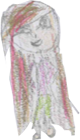
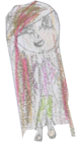
Week 14 Day 3 #3

diff --git a/storeScreen.html b/storeScreen.html
@@ -5,31 +5,33 @@
 		<script src = "jQuery.js"></script>
 	</head>
 	<body>
-		STORE SCREEN
-		<a href="mainMenu.html"><input type="button" value="RETURN"></a>
-		<input type = "button" value = "Male 1" id = "buttonMale1" onclick= checkFunds("m1",0)>
-		<input type = "button" value = "Male 2" id = "buttonMale2" onclick= checkFunds("m2",500)>
-		<input type = "button" value = "Male 3" id = "buttonMale3" onclick= checkFunds("m3",1000)>
-		<input type = "button" value = "Female 1" id= "buttonFemale1" onclick= checkFunds("f1",0)>
-		<input type = "button" value = "Female 2" id= "buttonFemale2" onclick= checkFunds("f2",500)>
-		<input type = "button" value = "Female 3" id= "buttonFemale3" onclick= checkFunds("f3",1000)>
-		<input type = "button" value = "RESET" id= "resetStore" onclick = resetStore()>
-		<p id = "moneyP">
-			<script>
-				var m = localStorage.getItem('coins');
-				$('#moneyP').text(m)
-			</script>
-		</p>
-		<br> Reference <br>
-		Male 1 = images/male1.png >> Free <br>
-		Male 2 = images/blue.png  >> $500<br>
-		Male 3 = images/red.png >> $1000<br>
-		Female 1 = images/female1.png  >>Free<br>
-		Female 2 = images/green.png >> $500<br>
-		Female 3 = images/yellow.png >> $1000<br>
-		
-		<canvas id = "temp"></canvas>
-		
-		<script src = "storeJS.js"></script>
+		<div>
+			STORE SCREEN
+			<a href="mainMenu.html"><input type="button" value="RETURN"></a>
+			<input type = "button" value = "Male 1" id = "buttonMale1" onclick= checkFunds("m1",0)>
+			<input type = "button" value = "Male 2" id = "buttonMale2" onclick= checkFunds("m2",0)>
+			<input type = "button" value = "Male 3" id = "buttonMale3" onclick= checkFunds("m3",0)>
+			<input type = "button" value = "Female 1" id= "buttonFemale1" onclick= checkFunds("f1",0)>
+			<input type = "button" value = "Female 2" id= "buttonFemale2" onclick= checkFunds("f2",0)>
+			<input type = "button" value = "Female 3" id= "buttonFemale3" onclick= checkFunds("f3",0)>
+			<input type = "button" value = "RESET" id= "resetStore" onclick = resetStore()>
+			<p id = "moneyP">
+				<script>
+					var m = localStorage.getItem('coins');
+					$('#moneyP').text(m)
+				</script>
+			</p>
+			<br> Reference <br>
+			Male 1 = images/male1.png >> Free <br>
+			Male 2 = images/blue.png  >> $500<br>
+			Male 3 = images/red.png >> $1000<br>
+			Female 1 = images/female1.png  >>Free<br>
+			Female 2 = images/green.png >> $500<br>
+			Female 3 = images/yellow.png >> $1000<br>
+			
+			<canvas id = "temp"></canvas>
+			
+			<script src = "storeJS.js"></script>
+		</div>
 	</body>
 </html>

diff --git a/storeJS.js b/storeJS.js
@@ -55,11 +55,11 @@ function changeChar(c){
 			runner.src= localStorage.avatar;
 			break;
 		case "m2": 
-			localStorage.avatar = "images/blue.png";
+			localStorage.avatar = "images/male2.png";
 			runner.src= localStorage.avatar;
 			break;
 		case "m3": 
-			localStorage.avatar = "images/red.png";
+			localStorage.avatar = "images/male3.png";
 			runner.src= localStorage.avatar;
 			break;
 		case "f1": 
@@ -67,11 +67,11 @@ function changeChar(c){
 			runner.src= localStorage.avatar;
 			break;
 		case "f2": 
-			localStorage.avatar = "images/green.png";
+			localStorage.avatar = "images/female2.png";
 			runner.src= localStorage.avatar;
 			break;
 		case "f3": 
-			localStorage.avatar = "images/yellow.png";
+			localStorage.avatar = "images/female3.png";
 			runner.src= localStorage.avatar;
 			break;
 	}

diff --git a/storeStyle.css b/storeStyle.css
@@ -7,6 +7,16 @@ body{
 	top:0px;
 }
 
+div{
+	background-image:url("images/storeBackground.png");
+	width:1024px;
+	height:600px;
+	border: 2px solid #000000;
+	position:absolute;
+	left:0px;
+	top:0px;
+}
+
 #temp{
 	position: absolute;
 	left: 300px;
@@ -15,3 +25,4 @@ body{
 	width: 80px;
 	height: 140px;
 }
+
